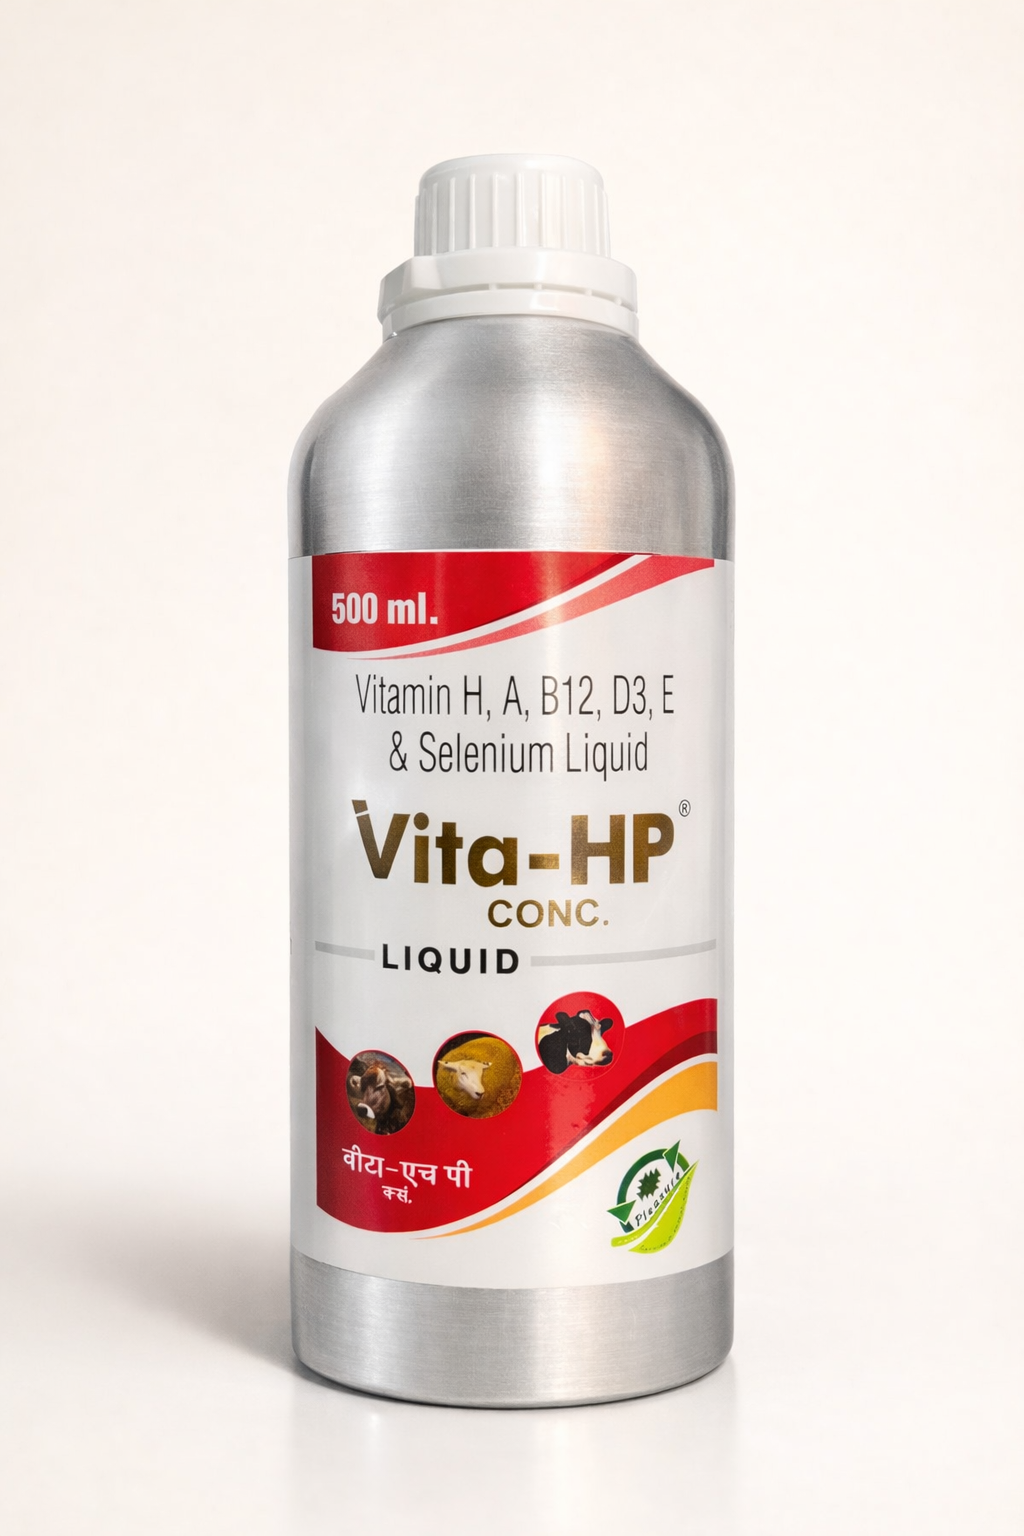
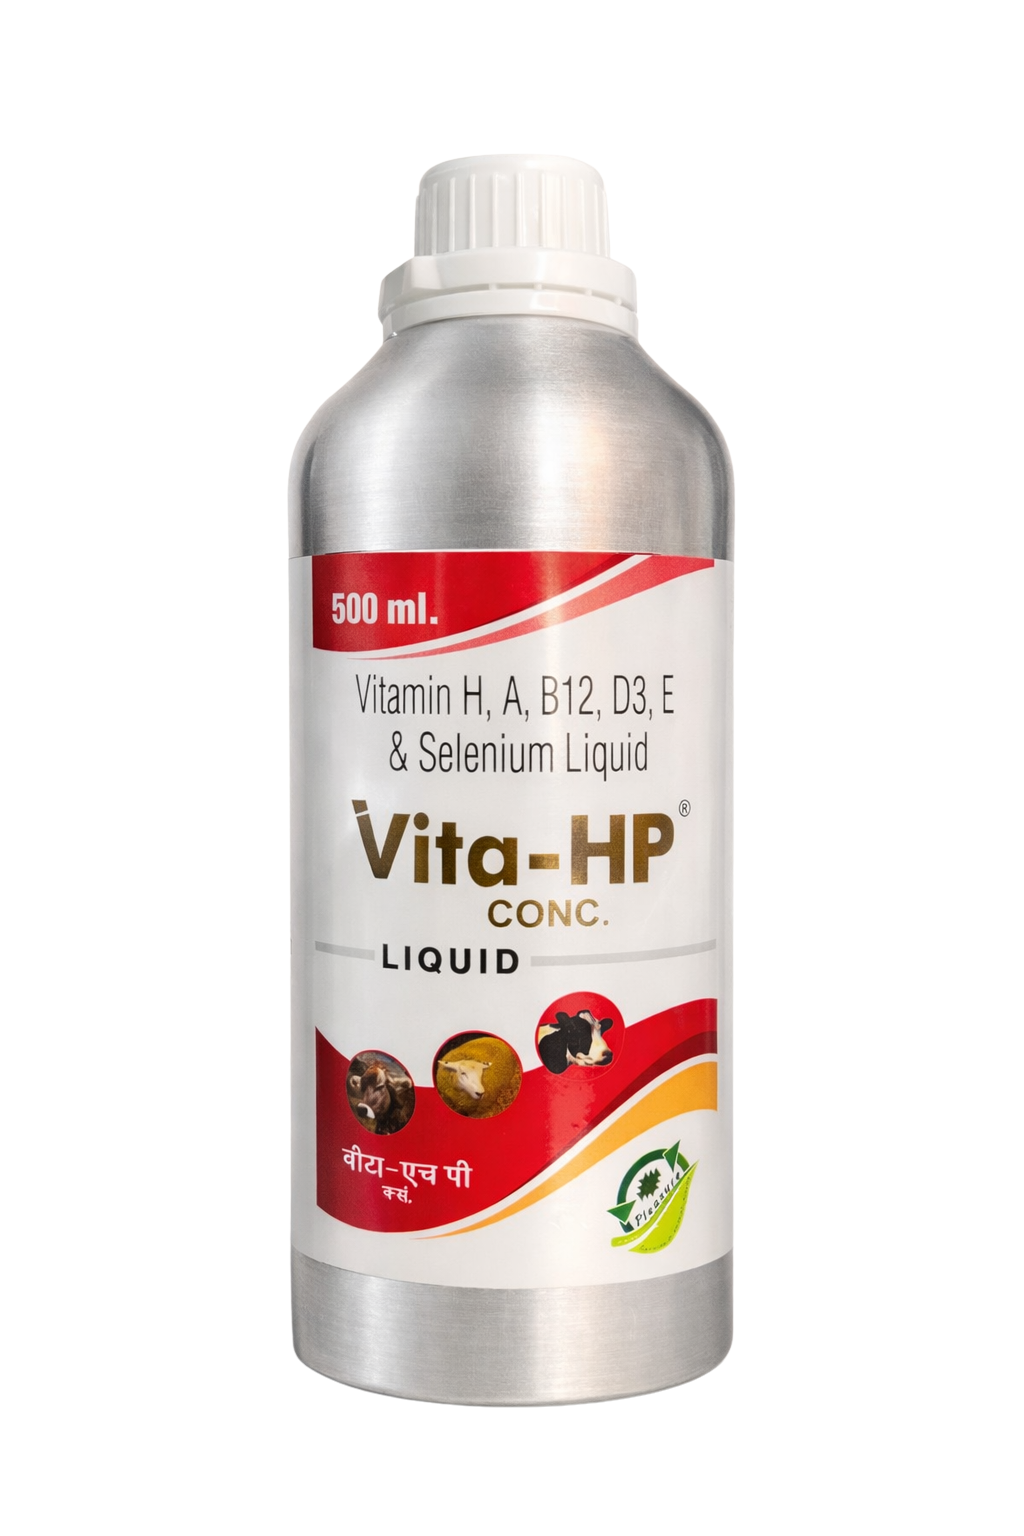
added images and sizes

Changed region(s): [[0.0, 0.75, 0.7188, 1.0], [0.0, 0.0, 0.1875, 0.125]]

diff --git a/src/data/products.ts b/src/data/products.ts
@@ -46,10 +46,14 @@ import utroC from "@/assets/utro-c.webp";
 import permethrin1 from "@/assets/permethrin1.jpg";
 import permethrin2 from "@/assets/permethrin2.jpg";
 
-import enroff from "@/assets/enroff.png"
-import enroff2 from "@/assets/enroff2.png"
+import enroff from "@/assets/enroff.png";
+import enroff2 from "@/assets/enroff2.png";
 // import vitahp from '@/assets/vitahp.png'
-import vitahp from '@/assets/vitahpn.png'
+import vitahp from "@/assets/vitahp.png";
+import vitahp25 from "@/assets/vitahp2.0.png";
+import vitahp250 from "@/assets/vitahp2.1.png";
+import vitahp5 from "@/assets/vitahp5.png";
+import vitahp5000 from "@/assets/vitahp5.1.png";
 
 import noflam from "@/assets/noflam.png";
 import noflam2 from "@/assets/noflam2.png";
@@ -62,8 +66,23 @@ import bCholine3 from "@/assets/b-choline3.png";
 import vetofex from "@/assets/vetofex1.png";
 import vetofex2 from "@/assets/vetofex2.1.png";
 import vetofexIu from "@/assets/vetofex-iu.png";
+import caldsureadv from "@/assets/caldsureadv.png";
+import caldsureadv2 from "@/assets/caldsureadv2.png";
+
+//new
+import caldsure from "@/assets/caldsure.png";
+import caldsure2 from "@/assets/caldsure (2).png";
+import leptad from "@/assets/leptad.png";
+import leptad2 from "@/assets/leptad2.png";
+import milkover from "@/assets/milkover.png";
+import milkover2 from "@/assets/milkover2.png";
 
 export type ProductCategory = "Injection" | "Bolus" | "Powder" | "Syrup";
+
+export interface ProductVariant {
+  size: string;
+  images: string[];
+}
 
 export interface Product {
   slug: string;
@@ -76,6 +95,8 @@ export interface Product {
   dosage: string;
   benefits: string[];
   packSize?: string;
+
+  variants?: ProductVariant[];
 }
 
 export const categories: ProductCategory[] = [
@@ -91,7 +112,8 @@ export const products: Product[] = [
     name: "P-CEF XP 4.5gm",
     tagline: "Cefoperazone + Sulbactam Injection",
     category: "Injection",
-    images: [pcefXp, 
+    images: [
+      pcefXp,
       // injectionImg, syrupImg
     ],
     composition: "Cefoperazone Sodium 3 g + Sulbactam Sodium 1.5 g (per vial)",
@@ -131,41 +153,41 @@ export const products: Product[] = [
     ],
     packSize: "4.5 g vial with diluent",
   },
-{
-  slug: "enroff",
-  name: "ENROFF Injection",
-  tagline: "Enrofloxacin Injection 10%",
-  category: "Injection",
-  images: [enroff, enroff2],
+  {
+    slug: "enroff",
+    name: "ENROFF Injection",
+    tagline: "Enrofloxacin Injection 10%",
+    category: "Injection",
+    images: [enroff, enroff2],
 
-  composition: "Each ml contains: Enrofloxacin 100 mg",
+    composition: "Each ml contains: Enrofloxacin 100 mg",
 
-indications: [
-  "Complicated bacterial infections",
-  "Bacterial diarrhea and calf scours",
-  "Haemorrhagic septicaemia",
-  "Metritis and mastitis",
-  "Skin, wound, and soft tissue infections",
-],
+    indications: [
+      "Complicated bacterial infections",
+      "Bacterial diarrhea and calf scours",
+      "Haemorrhagic septicaemia",
+      "Metritis and mastitis",
+      "Skin, wound, and soft tissue infections",
+    ],
 
-  dosage:
-    "Cattle/Buffalo: 1 ml per 40 kg body weight by IM/SC route once daily for 3 days or as directed by a veterinarian.",
+    dosage:
+      "Cattle/Buffalo: 1 ml per 40 kg body weight by IM/SC route once daily for 3 days or as directed by a veterinarian.",
 
-  benefits: [
-    "Broad-spectrum fluoroquinolone antibiotic",
-    "Excellent tissue penetration",
-    "Rapid clinical recovery",
-    "Effective against mastitis-causing pathogens",
-  ],
+    benefits: [
+      "Broad-spectrum fluoroquinolone antibiotic",
+      "Excellent tissue penetration",
+      "Rapid clinical recovery",
+      "Effective against mastitis-causing pathogens",
+    ],
 
-  packSize: "30 ml and 100 ml vials",
-},
+    packSize: "30 ml and 100 ml vials",
+  },
   {
     slug: "noflam",
     name: "NOFLAM",
     tagline: "Piroxicam + Paracetamol Injection",
     category: "Injection",
-    images: [noflam,noflam2],
+    images: [noflam, noflam2],
     composition: "Piroxicam 20 mg + Paracetamol 150 mg per ml",
     indications: [
       "Post-operative pain & inflammation",
@@ -206,6 +228,21 @@ indications: [
     tagline: "High-Potency Vitamin Tonic",
     category: "Syrup",
     images: [vitahp],
+
+    variants: [
+      {
+        size: "250 ml",
+        images: [vitahp25,vitahp250],
+      },
+      {
+        size: "500 ml",
+        images: [vitahp],
+      },
+      {
+        size: "5 L",
+        images: [vitahp5,vitahp5000],
+      },
+    ],
     composition: "Vitamins A, D3, E, B-Complex with essential minerals",
     indications: [
       "Vitamin & mineral deficiency",
@@ -219,7 +256,7 @@ indications: [
       "Improves milk yield & fertility",
       "Boosts immunity",
     ],
-    packSize: "1 L & 5 L pack",
+    packSize: "250ml, 500ml & 5l pack",
   },
   {
     slug: "liv-sure",
@@ -248,7 +285,7 @@ indications: [
     name: "CAL-D SURE",
     tagline: "Calcium + Phosphorus + Vitamin D3",
     category: "Syrup",
-    images: [syrupImg],
+    images: [caldsure, caldsure2],
     composition: "Calcium 25 mg, Phosphorus 11.5 mg, Vitamin D3 600 IU per ml",
     indications: [
       "Milk fever & hypocalcemia",
@@ -268,7 +305,7 @@ indications: [
     name: "LEPTA-D",
     tagline: "Mineral Mixture Powder",
     category: "Powder",
-    images: [powderImg],
+    images: [leptad, leptad2],
     composition:
       "Chelated minerals — Zn, Cu, Mn, Fe, Co, I, Se with vitamins A, D3, E",
     indications: [
@@ -313,7 +350,7 @@ indications: [
     name: "I-PERDONE",
     tagline: "Isoflupredone Injection",
     category: "Injection",
-    images: [iPerdone,iPerdone2],
+    images: [iPerdone, iPerdone2],
     composition: "Isoflupredone",
     indications: ["Ketosis", "Inflammation"],
     dosage: "As directed",
@@ -325,7 +362,7 @@ indications: [
     name: "B-CHOLINE",
     tagline: "Choline Chloride Injection",
     category: "Injection",
-    images: [bCholine,bCholine2,bCholine3],
+    images: [bCholine, bCholine2, bCholine3],
     composition: "Choline Chloride + B-Complex",
     indications: ["Liver disorders", "Fatty liver"],
     dosage: "5–10 ml",
@@ -349,7 +386,7 @@ indications: [
     name: "VETOFEX",
     tagline: "Ofloxacin Bolus",
     category: "Bolus",
-    images: [vetofex,vetofex2],
+    images: [vetofex, vetofex2],
     composition: "Ofloxacin",
     indications: ["Diarrhea", "Respiratory infections"],
     dosage: "As directed",
@@ -385,9 +422,7 @@ indications: [
     name: "ZOONIL PLUS INJECTION",
     tagline: "Ivermectin Injection",
     category: "Injection",
-    images: [zoonil,
-      zoonil2
-    ],
+    images: [zoonil, zoonil2],
     composition: "Ivermectin",
     indications: ["Parasites", "Ticks"],
     dosage: "1 ml per 50 kg",
@@ -488,7 +523,7 @@ indications: [
     name: "MILKOVER",
     tagline: "Milk Enhancer Syrup",
     category: "Syrup",
-    images: [syrupImg],
+    images: [milkover, milkover2],
     composition: "Minerals + Vitamins",
     indications: ["Low milk yield"],
     dosage: "As directed",
@@ -500,7 +535,7 @@ indications: [
     name: "CAL-D SURE ADVANCE",
     tagline: "Calcium Gel",
     category: "Syrup",
-    images: [syrupImg],
+    images: [caldsureadv, caldsureadv2],
     composition: "Calcium + Vitamin D",
     indications: ["Milk fever"],
     dosage: "As directed",

diff --git a/src/pages/ProductDetail.tsx b/src/pages/ProductDetail.tsx
@@ -8,6 +8,7 @@ import Zoom from "yet-another-react-lightbox/plugins/zoom";
 import "yet-another-react-lightbox/styles.css";
 
 import "./lightbox.css";
+import { cn } from "@/lib/utils";
 
 import { useState, useRef, lazy, Suspense } from "react";
 const Lightbox = lazy(() => import("yet-another-react-lightbox"));
@@ -56,6 +57,10 @@ const ProductDetail = () => {
     });
   };
 
+  const [selectedVariant, setSelectedVariant] = useState(
+    product.variants?.[0] || null,
+  );
+
   const [openLightbox, setOpenLightbox] = useState(false);
   return (
     <article>
@@ -85,7 +90,11 @@ const ProductDetail = () => {
               onMouseMove={handleMouseMove}
             >
               <img
-                src={product.images[selected]}
+                src={
+                  selectedVariant
+                    ? selectedVariant.images[selected]
+                    : product.images[selected]
+                }
                 alt={product.name}
                 className="max-w-full max-h-full object-contain p-6 cursor-zoom-in"
                 onClick={() => setOpenLightbox(true)}
@@ -108,17 +117,42 @@ const ProductDetail = () => {
 
             {/* THUMBNAILS */}
             <div className="flex gap-2">
-              {product.images.map((img, i) => (
-                <img
-                  key={i}
-                  src={img}
-                  onClick={() => setSelected(i)}
-                  className={`h-16 w-16 cursor-pointer rounded-md border object-contain p-1 ${
-                    selected === i ? "border-primary" : "border-border"
-                  }`}
-                />
-              ))}
+              {(selectedVariant ? selectedVariant.images : product.images).map(
+                (img, i) => (
+                  <img
+                    key={i}
+                    src={img}
+                    onClick={() => setSelected(i)}
+                    className={`h-16 w-16 cursor-pointer rounded-md border object-contain p-1 ${
+                      selected === i ? "border-primary" : "border-border"
+                    }`}
+                  />
+                ),
+              )}
             </div>
+
+            {/* SIZE VARIANTS */}
+            {product.variants && (
+              <div className="flex flex-wrap gap-3 pt-4">
+                {product.variants.map((variant) => (
+                  <button
+                    key={variant.size}
+                    onClick={() => {
+                      setSelectedVariant(variant);
+                      setSelected(0);
+                    }}
+                    className={cn(
+                      "rounded-full border px-4 py-2 text-sm font-medium transition-smooth",
+                      selectedVariant?.size === variant.size
+                        ? "border-primary bg-primary text-white"
+                        : "border-border bg-[#F5E6CC] text-primary",
+                    )}
+                  >
+                    {variant.size}
+                  </button>
+                ))}
+              </div>
+            )}
           </div>
 
           {/* FLOATING ZOOM PANEL */}
@@ -210,7 +244,7 @@ const ProductDetail = () => {
                   <img
                     src={p.images[0]}
                     alt={p.name}
-                    className="h-20 w-20 rounded-md object-contain p-1"
+                    className="h-20 w-20 bg-tan rounded-md object-contain p-1"
                   />{" "}
                   <div>
                     <h3 className="font-display text-xl text-primary">

diff --git a/src/components/site/ProductCard.tsx b/src/components/site/ProductCard.tsx
@@ -7,6 +7,8 @@ type ProductCardProps = {
   product: Product;
 };
 
+
+
 export const ProductCard = memo(({ product }: ProductCardProps) => (
   <Link
     to={`/products/${product.slug}`}
